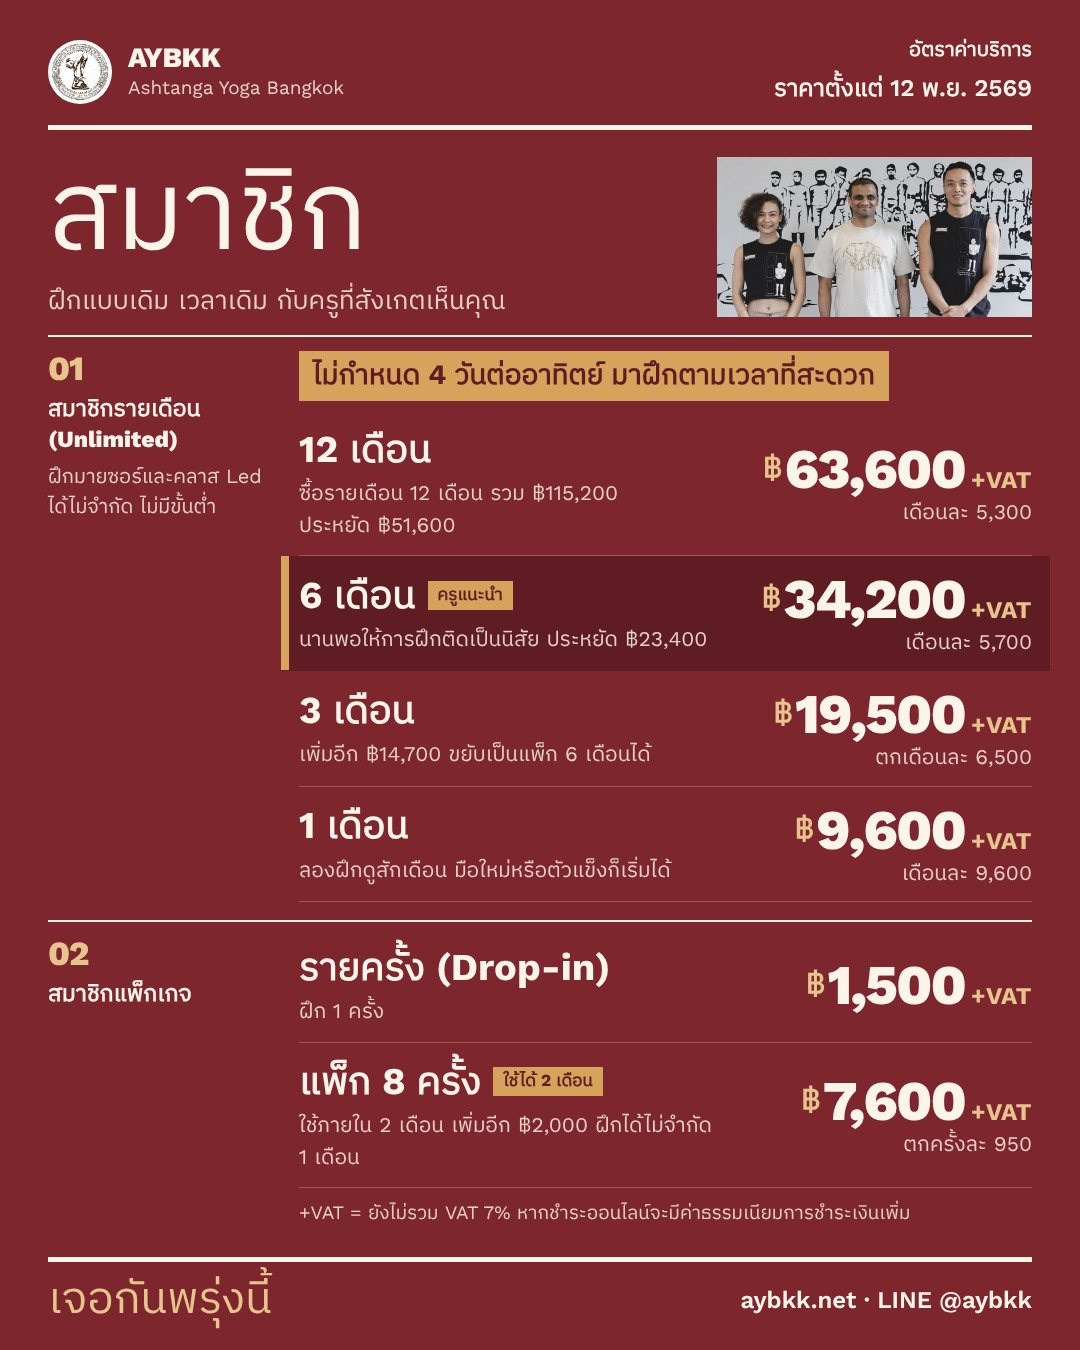
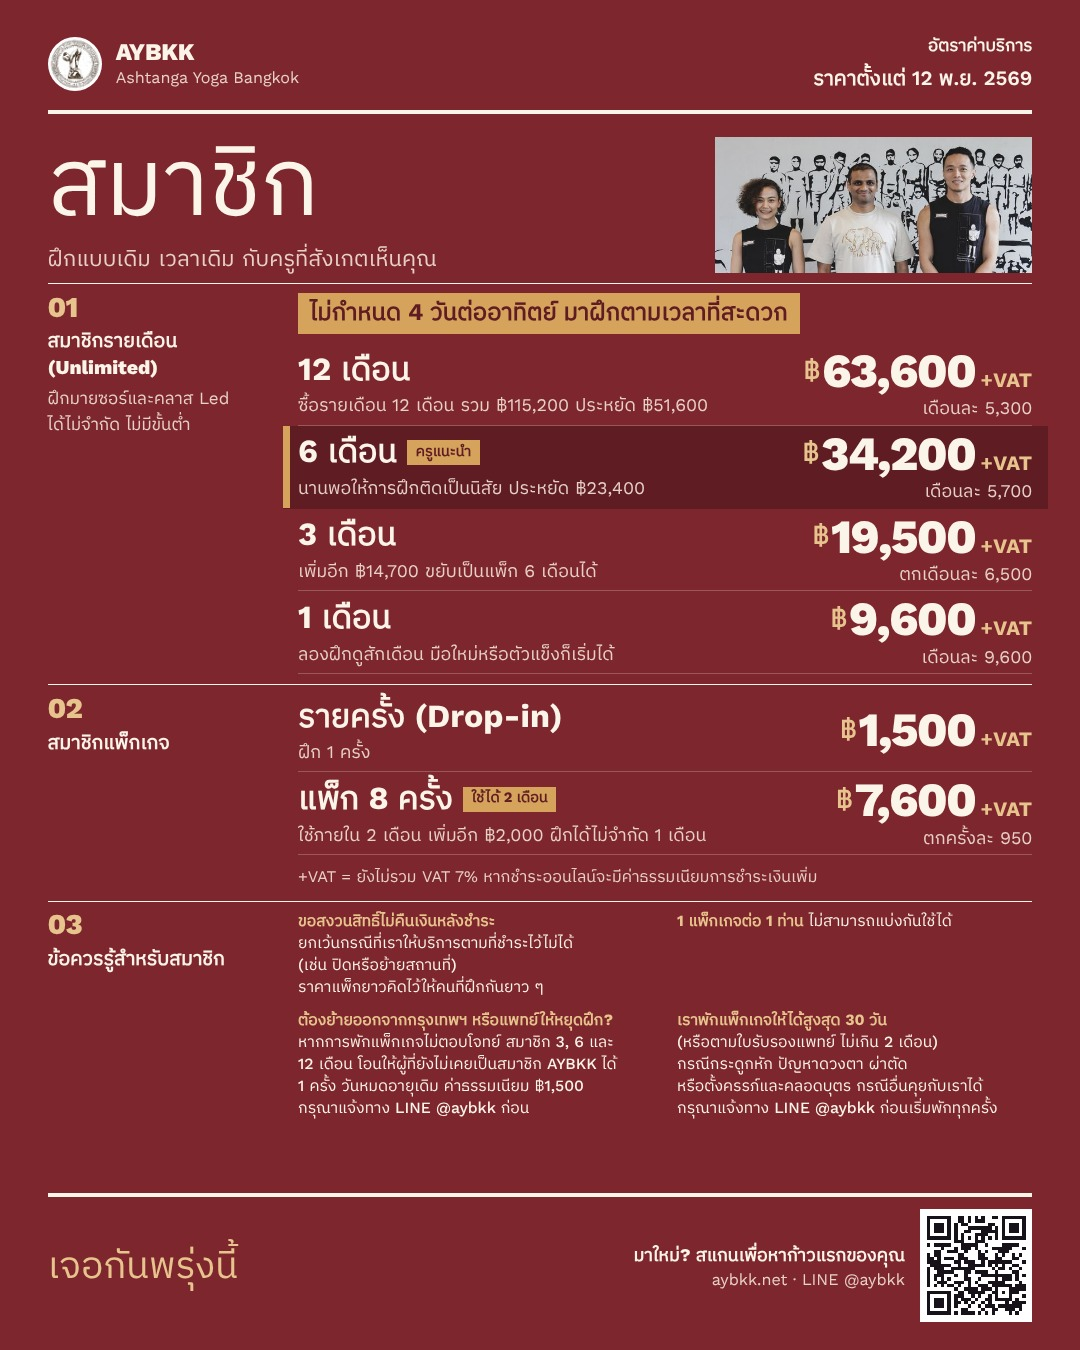
Grid social posters keep every section: member notes and QR on the post (laid out at 1270x1588, zoomed to 1080x1350), QR on the story; faces framed in the post photo
Claude-Session: https://claude.ai/code/session_01QRPtAqCjY8bjNihjxsdNLn

diff --git a/bots/media/2026-11-06-price-poster/social.js b/bots/media/2026-11-06-price-poster/social.js
@@ -6,11 +6,13 @@ const THEME = process.env.THEME || 'site';
 const b64 = (f, t) => `data:${t};base64,` + fs.readFileSync(f).toString('base64');
 const copy = JSON.parse(fs.readFileSync(path.join(__dirname, '../2026-10-19-prices-v3/final-v3.json'), 'utf8').replace(/’/g, "'"));
 (async () => {
+  const QRLIB = require(path.join(REPO, 'node_modules/qrcode'));
+  const qr = await QRLIB.toString('https://aybkk.net/start/wall#first-step', { type: 'svg', margin: 0, errorCorrectionLevel: 'M', color: { dark: '#17121a', light: '#ffffff' } });
   const html = fs.readFileSync(path.join(__dirname, 'poster.html'), 'utf8')
     .replace('__WORKSANS__', b64(path.join(REPO, 'public/fonts/worksans.woff2'), 'font/woff2'))
     .replace('__PLEXTHAI__', b64(path.join(REPO, 'public/fonts/plexthai-th.woff2'), 'font/woff2'))
     .replace('__CORMORANT__', b64(path.join(REPO, 'public/fonts/cormorant.woff2'), 'font/woff2'))
-    .replace('__COPY__', () => JSON.stringify(copy)).replace('__QR__', () => JSON.stringify(''))
+    .replace('__COPY__', () => JSON.stringify(copy)).replace('__QR__', () => JSON.stringify(qr))
     .replace('__PHOTO__', b64(path.join(REPO, 'public/img/aybkk-hero-1600.jpg'), 'image/jpeg'))
     .replace('__LOGO__', b64(path.join(REPO, 'public/img/aybkk-logo-240.jpg'), 'image/jpeg'));
   const tmp = path.join(__dirname, '.social-built.html'); fs.writeFileSync(tmp, html);
@@ -19,6 +21,7 @@ const copy = JSON.parse(fs.readFileSync(path.join(__dirname, '../2026-10-19-pric
     const p = await b.newPage({ viewport: { width: 1080, height: h }, deviceScaleFactor: 1 });
     const errs = []; p.on('pageerror', e => errs.push(e.message));
     await p.goto(`file://${tmp}?lang=${lang}&theme=${THEME}&size=${size}`); await p.evaluate(() => document.fonts.ready);
+    await p.addStyleTag({ content: 'html{zoom:' + (1080 / (size === 'post' ? 1270 : 1123)) + '}' });
     const chk = await p.evaluate(() => {
       const pg = document.getElementById('page'), foot = pg.querySelector('.foot').getBoundingClientRect();
       const last = [...pg.querySelectorAll('.sec')].filter(s => s.offsetParent !== null).pop().getBoundingClientRect();

diff --git a/bots/media/2026-11-06-price-poster/poster.html b/bots/media/2026-11-06-price-poster/poster.html
@@ -109,21 +109,15 @@
   body.site{background:#fff}
   body.site .page{background:var(--paper);clip-path:inset(24px)}
   body.site .notes p{font-weight:500}
-  /* Social sizes on the same grid (Boonchu, 11 Nov): feed post 1080x1350 and story 1080x1920, full bleed.
-     A phone cannot scan its own screen, so no QR. The post has no room for the member notes. */
-  body.post{--W:1080px;--H:1350px;--m:48px}
-  body.story{--W:1080px;--H:1920px;--m:56px}
+  /* Social sizes on the same grid, every section kept (Boonchu, 11 Nov): the post is laid out
+     at 1270x1588 and zoomed to 1080x1350; the story at 1123x1997 (the wall width) and zoomed to
+     1080x1920, with Instagram's top and bottom kept clear. Full bleed, no white frame. */
+  body.post{--W:1270px;--H:1588px}
+  body.story{--W:1123px;--H:1997px}
   body.post .page,body.story .page{clip-path:none}
   body.post,body.story{background:var(--paper)}
-  body.post .contact .qr,body.story .contact .qr{display:none}
-  body.post .notes-sec{display:none}
-  body.post .page{padding-top:34px;padding-bottom:30px}
-  body.story .page{padding-top:190px;padding-bottom:230px}
-  body.post .contact .t b,body.story .contact .t b{display:none}
-  body.post .contact .t > span,body.story .contact .t > span{font-size:24px;font-weight:600;color:var(--ink)}
-  body.post .row{padding-top:15px;padding-bottom:15px}
-  body.post .sec{margin-top:18px;padding-top:14px}
-  body.post .row:first-child{padding-top:8px}
+  body.story .page{padding-top:200px;padding-bottom:230px}
+  body.post .hero .pic img{top:-206px}
 </style></head>
 <body><div class="page" id="page"></div>
 <script>
